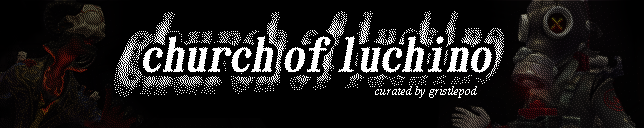
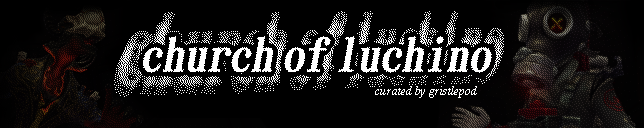
.

Changed region(s): [[0.8075, 0.0, 0.9317, 0.0938], [0.1242, 0.0312, 0.1553, 0.125], [0.0311, 0.4062, 0.0621, 0.4688]]

diff --git a/luchino_shrine/css.css b/luchino_shrine/css.css
@@ -34,10 +34,9 @@ table{width:100%;}
 td{background-size:cover !important;padding:3px;color:#363636;vertical-align:top;}
 td:hover{color:#ffffff;transition:.3s ease;}
 img:hover{cursor:crosshair;}
-#top{min-height:128px;}
 #top, #map, #bottom{border:1px var(--heading);}
 #map, #bottom{min-height:200px;padding:10px 0px 0px 0px;text-align:center;}
-#top{background:url("layout_pieces/top.png")no-repeat;border-style: none none var(--borderStyle) none;}
+#top{background:url("layout_pieces/top.png")no-repeat bottom left;border-style: none none var(--borderStyle) none;min-height:128px;}
 #map{background:url('images/map_banner.png')no-repeat top left;border-style: var(--borderStyle) none none none;}
 audio, audio:hover .playlist, .playlist div:hover,.gallery img{transition:.5s ease;}
 .inContent{min-height:600px;padding:0px 10px 0px 5px;display:flex;}
